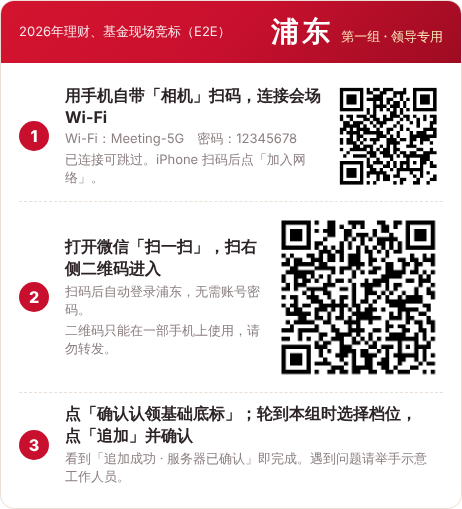
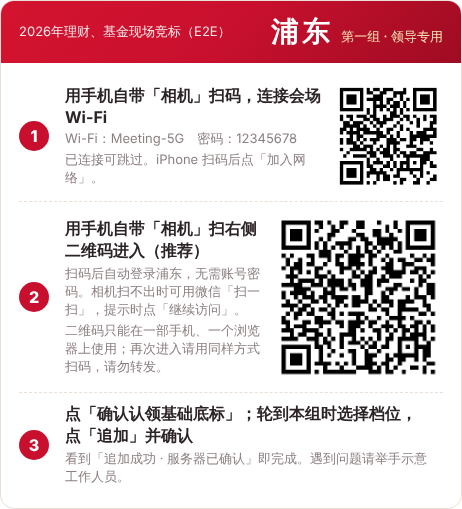
领导使用卡改为推荐用手机自带相机扫码
- 卡片第二步：用手机自带「相机」扫码进入（推荐），相机扫不出时用微信「扫一扫」并点「继续访问」；
  提醒二维码只能在一部手机、一个浏览器上使用，再次进入用同样方式扫码
- 相机扫码直接用手机自带浏览器打开，不经过微信，不受微信对未备案域名的提示或拦截影响
- 同步更新领导使用指南、现场操作手册、云服务器部署说明与部署包说明；金山填报卡仍用微信（金山文档在微信内可直接打开）

Claude-Session: https://claude.ai/code/session_01U6Pgri5g78g3NTCDgE6cee

Changed region(s): [[0.1212, 0.4126, 0.5758, 0.7367], [0.6061, 0.4126, 0.9394, 0.7367]]

diff --git a/apps/web/src/components/LeaderCards.tsx b/apps/web/src/components/LeaderCards.tsx
@@ -46,9 +46,9 @@ export function LeaderCard({ c, card }: { c: CardCredential; card: CardInfo }) {
         <div className="lc-step lc-main">
           <div className="lc-num">{++n}</div>
           <div className="lc-text">
-            <b>打开微信「扫一扫」，扫右侧二维码进入</b>
-            <span>扫码后自动登录{c.unitName}，无需账号密码。</span>
-            <span>二维码只能在一部手机上使用，请勿转发。</span>
+            <b>用手机自带「相机」扫右侧二维码进入（推荐）</b>
+            <span>扫码后自动登录{c.unitName}，无需账号密码。相机扫不出时可用微信「扫一扫」，提示时点「继续访问」。</span>
+            <span>二维码只能在一部手机、一个浏览器上使用；再次进入请用同样方式扫码，请勿转发。</span>
           </div>
           <img className="lc-qr lc-qr-main" src={c.qrDataUrl} alt={`${c.unitName}二维码`} />
         </div>

diff --git a/docs/云服务器部署.md b/docs/云服务器部署.md
@@ -25,6 +25,7 @@
 | 6 | 在新地址下重新发放领导二维码与大屏链接（二维码里写的是访问地址），iPhone、安卓各一台关闭 Wi-Fi 实测 | 30 分钟 |
 
 - 只用 IP + HTTP 也能用，但微信打开时更容易出现「非微信官方网页」提示（领导点「继续访问」即可），且没有 HTTPS 加密。正式活动建议用域名 + HTTPS。
+- **领导使用卡推荐用手机自带相机扫码**：打开的是手机自带浏览器，不经过微信，不受微信对未备案域名的提示或拦截影响；相机扫不出时再用微信「扫一扫」。
 - 金山文档读取在云服务器上同样可用（服务器能访问 kdocs.cn 即可）。
 
 ## 一、准备（大陆服务器需提前 1–3 周备案）
@@ -97,7 +98,7 @@
 | 现象 | 处理 |
 | --- | --- |
 | 证书申请失败 | 检查：域名是否已解析到本服务器；安全组是否放行 80/443；大陆服务器是否已备案。处理后重新运行 `install.sh` |
-| 微信里打不开 | 域名未备案或被拦截：完成备案；或让领导点右上角「在浏览器打开」 |
+| 微信里打不开 | 改用手机自带相机扫码（直接用手机浏览器打开）；或在微信里点右上角「在浏览器打开」。换了浏览器的领导需工作人员重新发码 |
 | 大屏一直显示「降级刷新」 | 中间有代理/CDN 缓冲了实时推送；不要在本系统前加 CDN，或为 `/api/v1/*/stream` 关闭缓冲 |
 | 忘记管理员密码 | `sudo bidding reset-admin` |
 

diff --git a/docs/领导使用指南.md b/docs/领导使用指南.md
@@ -7,10 +7,12 @@
 每位领导会拿到一张本单位专属的 **领导使用卡**：
 
 1. **连 Wi-Fi**（仅局域网版，卡上有此步时）：用手机**自带相机**扫卡上第一个二维码，点「加入网络」。已经连上会场 Wi-Fi 可跳过。
-2. **进入竞标页**：打开**微信「扫一扫」**，扫卡上的大二维码，自动进入本单位页面（显示单位名称和组别）。
-3. 以后再次打开：在同一部手机上再扫一次卡上的二维码即可回到页面。
+2. **进入竞标页**：用手机**自带「相机」**对准卡上的大二维码，点屏幕上弹出的链接，自动进入本单位页面（显示单位名称和组别）。
+   - 用相机打开的是手机自带浏览器（Safari / Chrome 等），不经过微信，不会出现微信的拦截或「非微信官方网页」提示。
+   - 少数安卓手机的相机不识别二维码：可用微信「扫一扫」，如提示「非微信官方网页」点「继续访问」。
+3. 以后再次打开：在同一部手机上**用同样的方式**再扫一次卡上的二维码即可回到页面（第一次用相机，之后也用相机）。
 
-> 二维码只能在一部手机上使用，请勿转发。如需换手机，请举手示意工作人员。
+> 二维码只能在一部手机、一个浏览器上使用，请勿转发。如需换手机或换浏览器（例如从微信换到 Safari），请举手示意工作人员重新发码。
 
 ## 现场操作
 

diff --git a/docs/现场操作手册.md b/docs/现场操作手册.md
@@ -31,7 +31,7 @@
 
 ### 1. 领导扫码进入
 
-- 领导用微信或手机浏览器扫描本单位二维码，进入后页面显示单位名称、组别、底标、首轮增幅。
+- 领导用**手机自带相机**扫描本单位二维码（推荐；相机扫不出时用微信「扫一扫」），进入后页面显示单位名称、组别、底标、首轮增幅。提醒领导再次进入时用同样方式扫码。
 - 首轮未发布时显示「首轮结果待现场发布」，只能看到本单位数据。
 - 领导扫码失败时，手机会提示具体原因和单位（例如「闵行的二维码已在一部手机上使用过」）。
 - 换手机 / 二维码丢失：在「二维码与大屏」点该单位「换手机」，电脑屏幕上会显示该单位的使用卡，**让领导直接扫电脑屏幕**即可，无需打印。

diff --git a/docs/部署说明.md b/docs/部署说明.md
@@ -70,7 +70,7 @@ npm start                     # 生产运行（读取根目录 .env）
    - 手机与投屏电脑连接**同一个可达的 Wi-Fi**；
    - 路由器/AP **关闭客户端隔离（AP 隔离）**；
    - 服务器防火墙放行 8080 端口；
-   - 用两部不同品牌手机在微信内扫码实测能打开；
+   - 用两部不同品牌手机实测：手机自带相机扫码、微信「扫一扫」两种方式都能打开；
    - 不要在会议中途更换服务器 IP，否则已打印二维码失效。
 4. 局域网 http 不是浏览器的「安全上下文」，本系统已避开依赖安全上下文的接口，可正常使用；如需 HTTPS，可在局域网内用自签证书 + Nginx，但需在每部手机信任证书，一般不建议。
 
